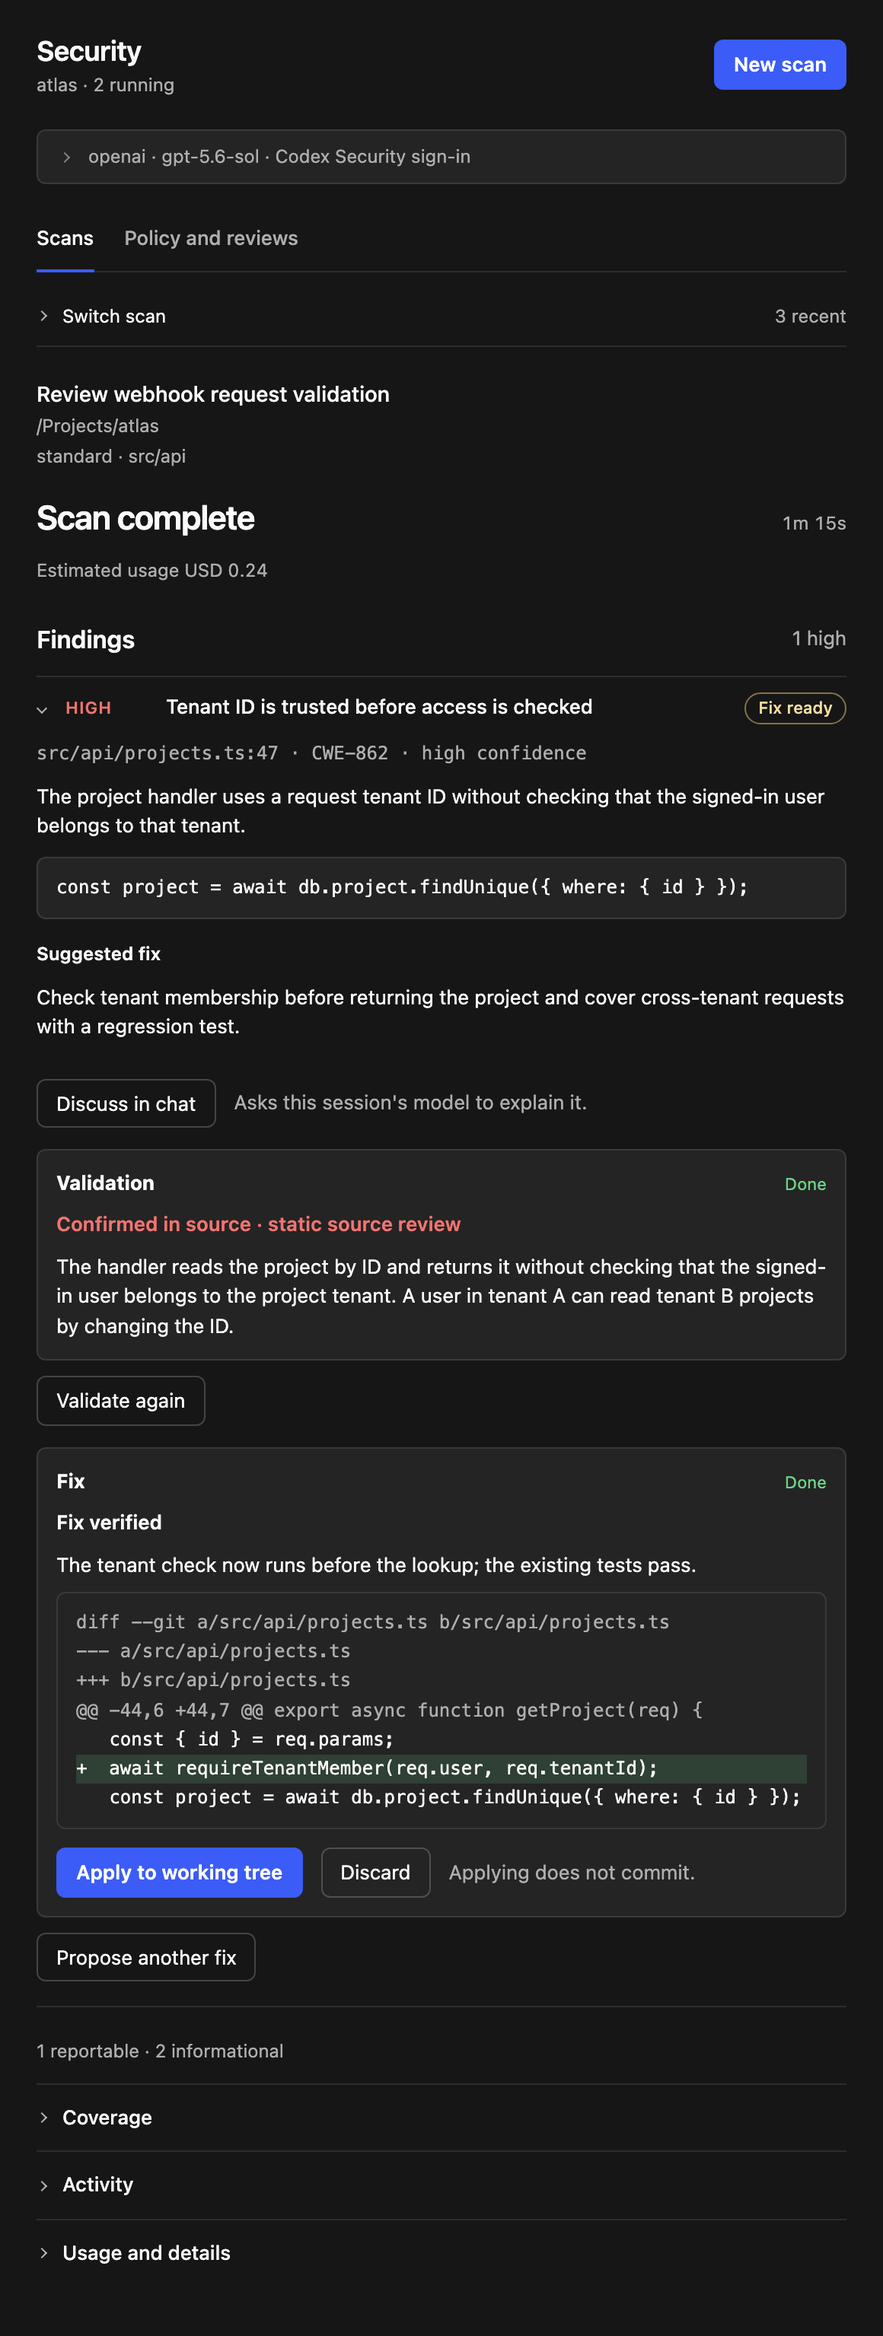
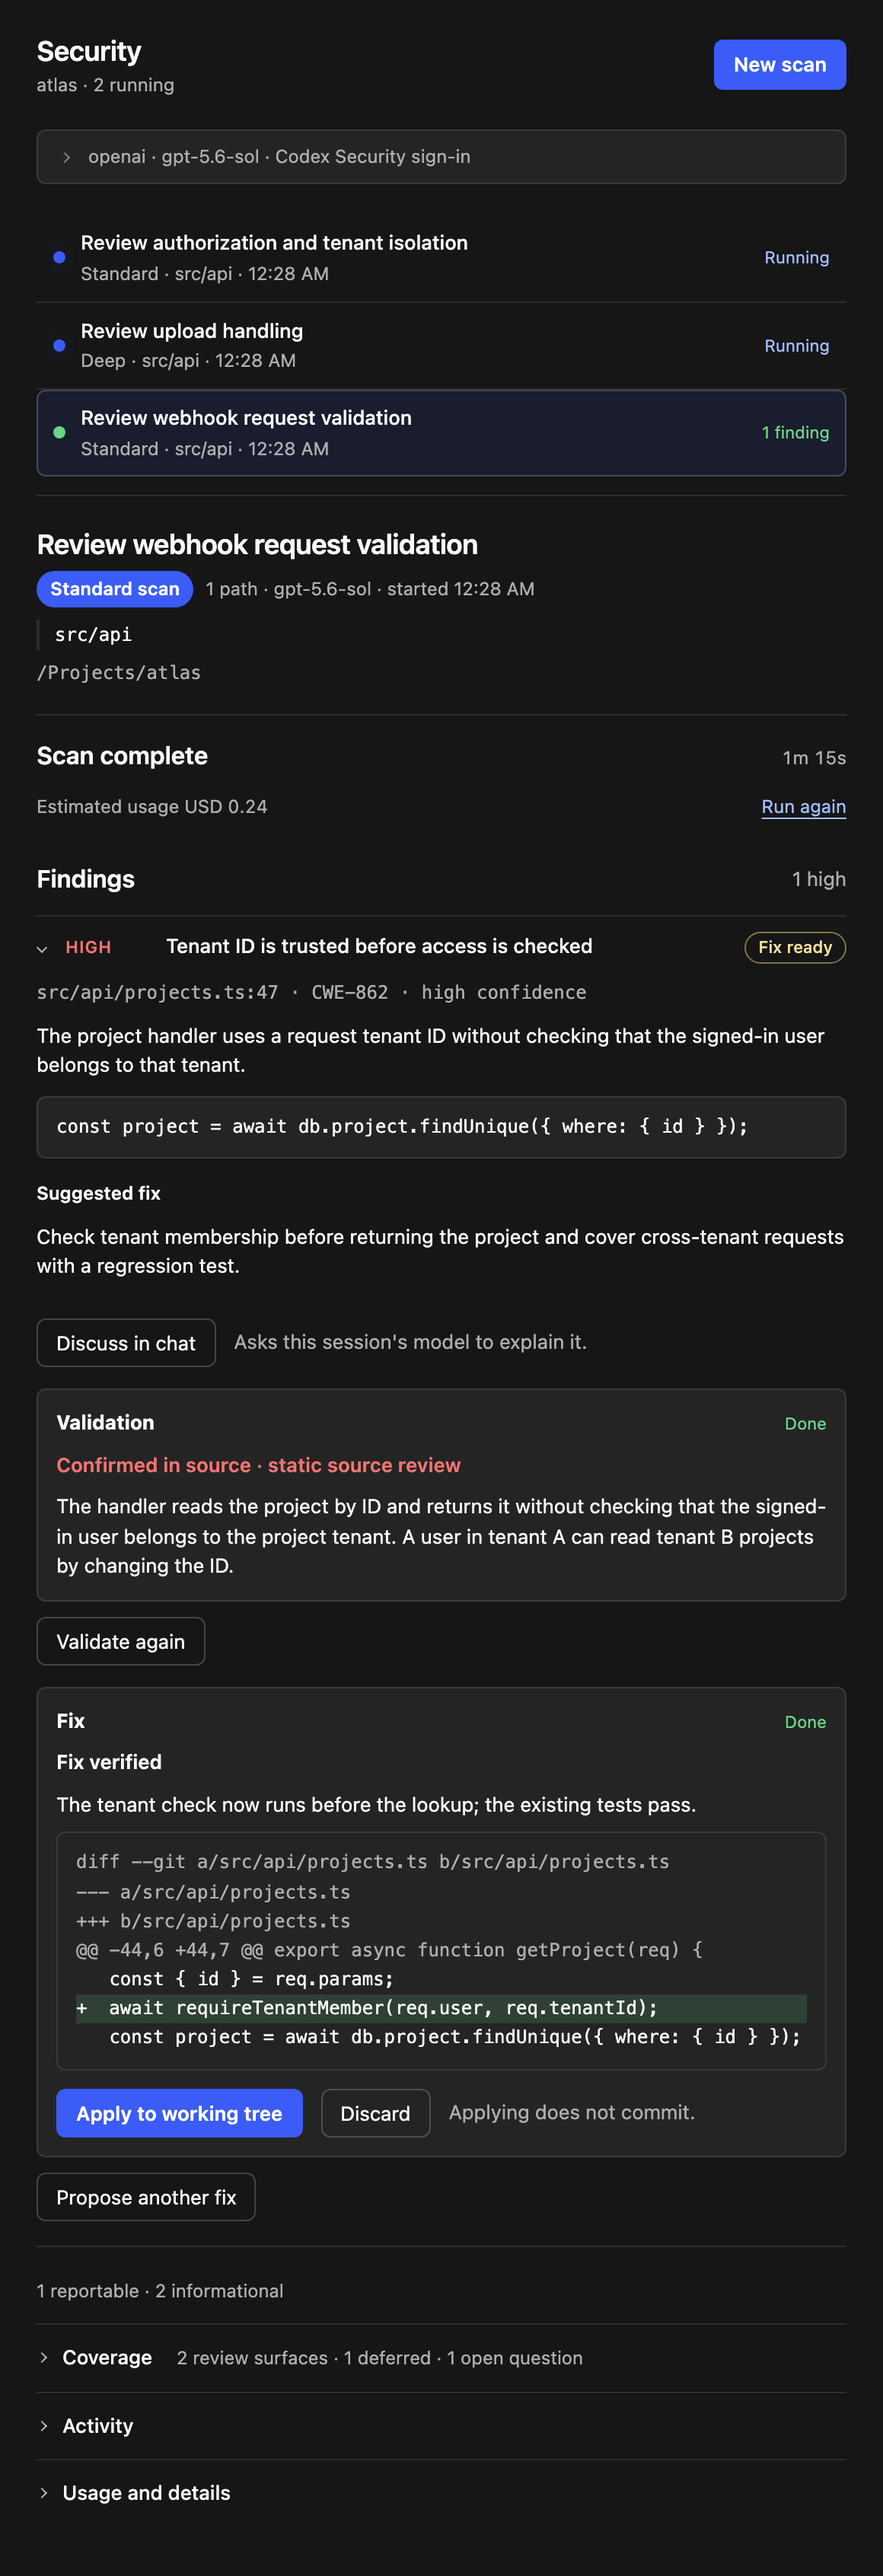
docs: refresh README screenshots for the current views
Claude-Session: https://claude.ai/code/session_016LiHJtDpo3TEPnWZ78vM2X

diff --git a/README.md b/README.md
@@ -130,7 +130,7 @@ Hand any finding to the conversation and have the model explain it.
 </table>
 
 <p align="center">
-  <img src="docs/images/desktop-running.png" alt="The Desktop panel while a scan is running, with a progress bar and an estimated cost" width="520">
+  <img src="docs/images/desktop-running.png" alt="The Desktop panel while a scan is running: the scan list, a progress bar, an estimated cost, and the activity log showing what the scan is doing" width="520">
 </p>
 
 ## Configuration
